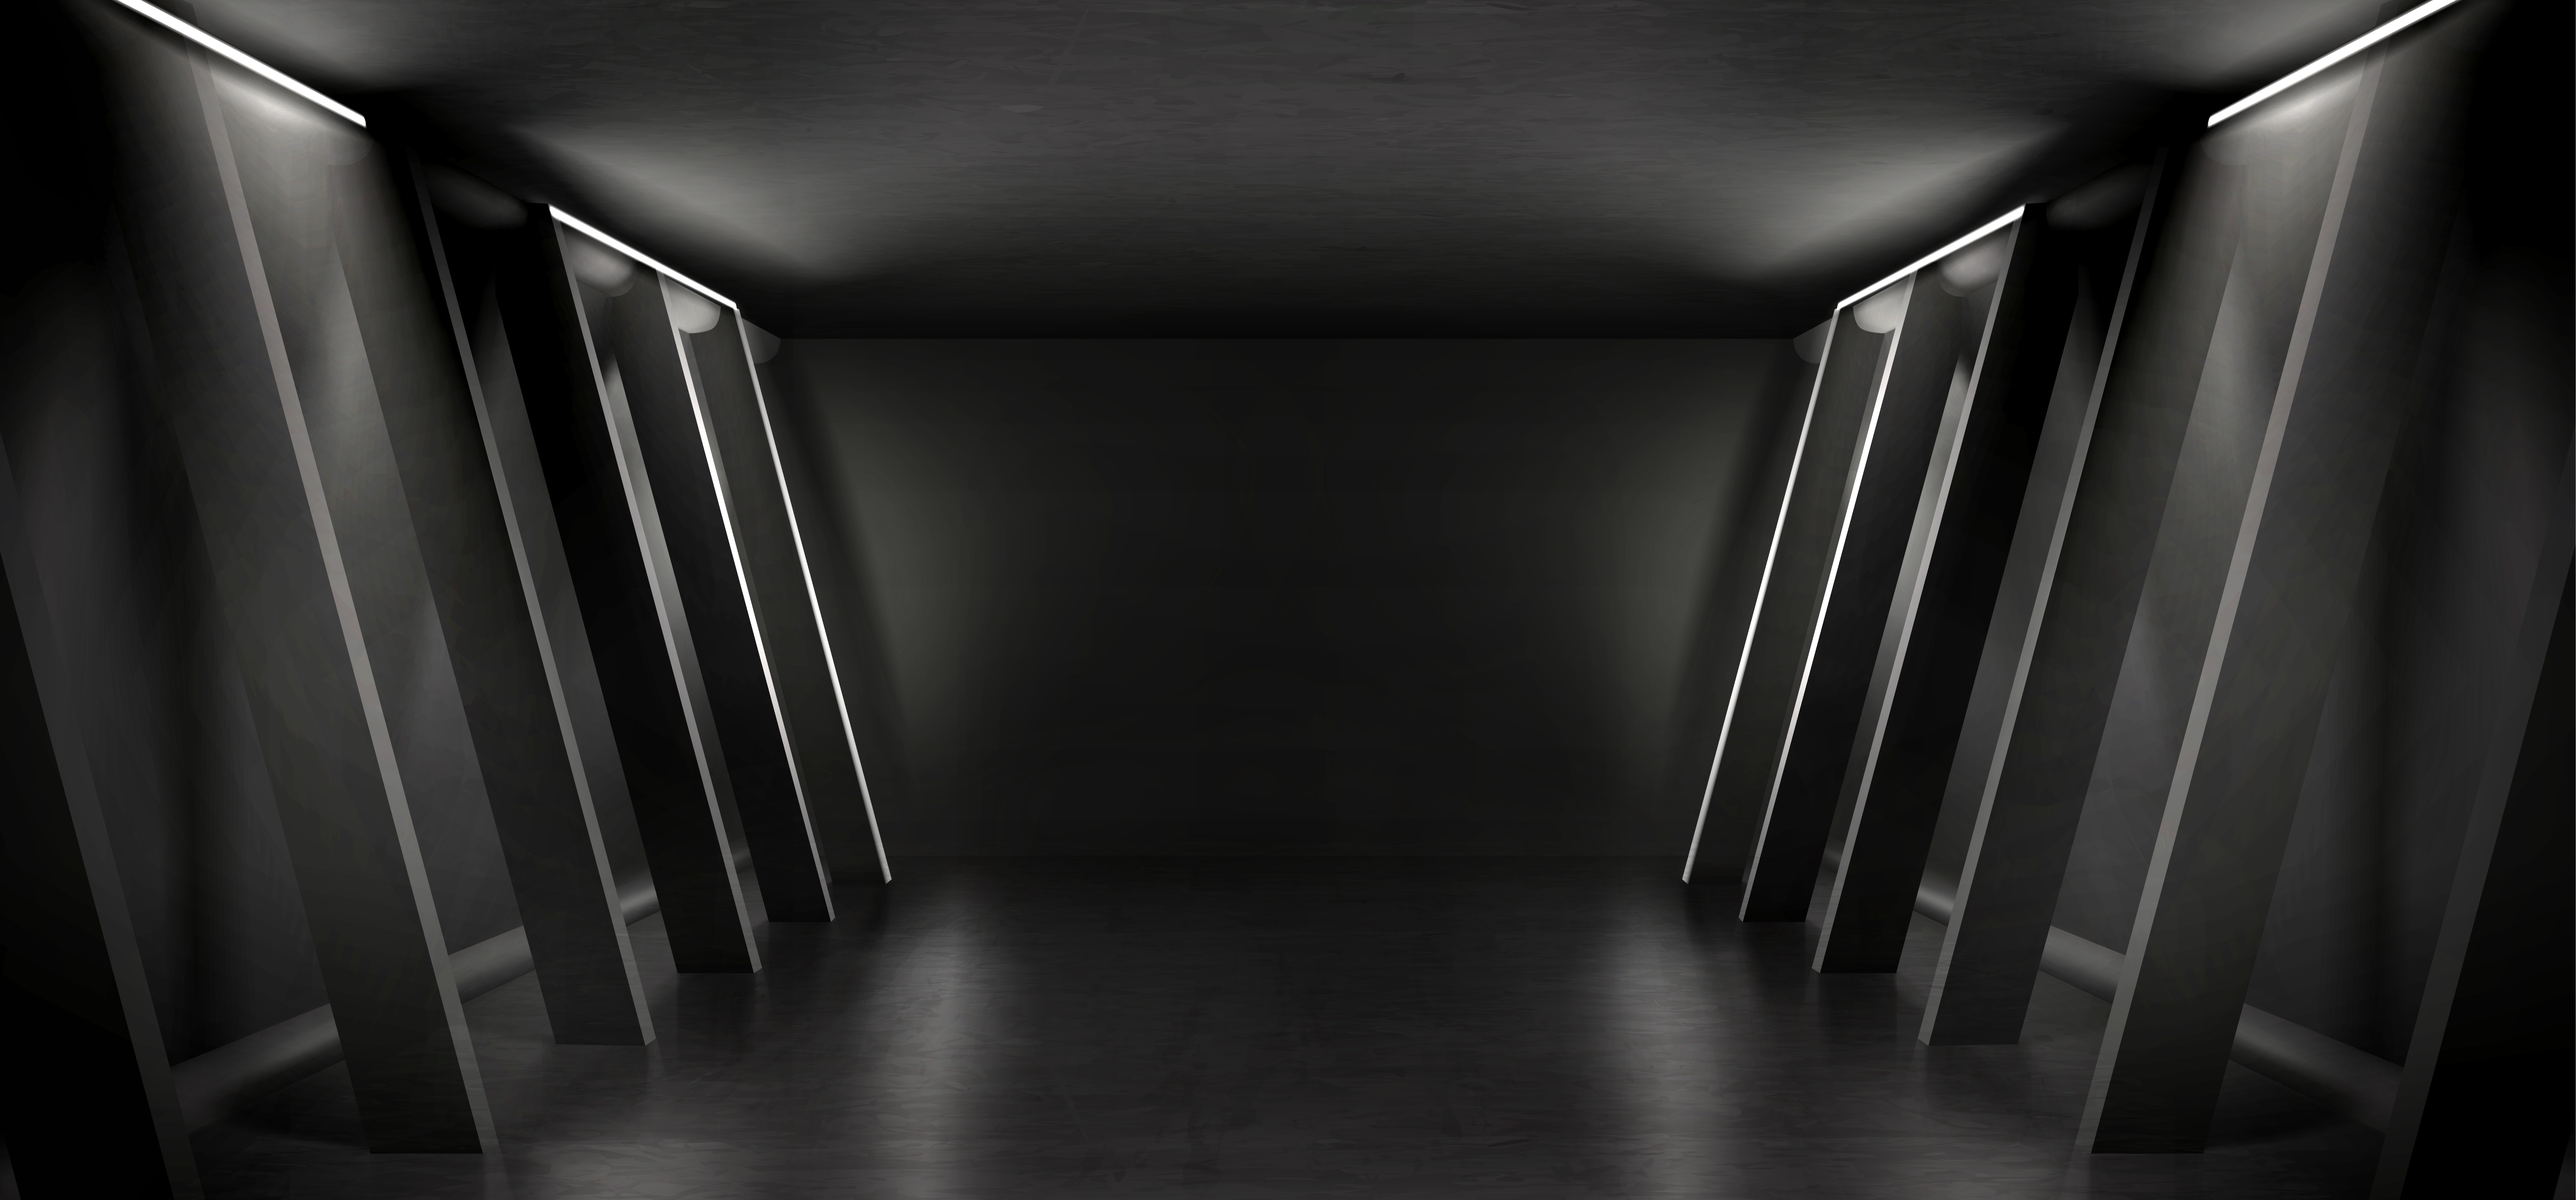
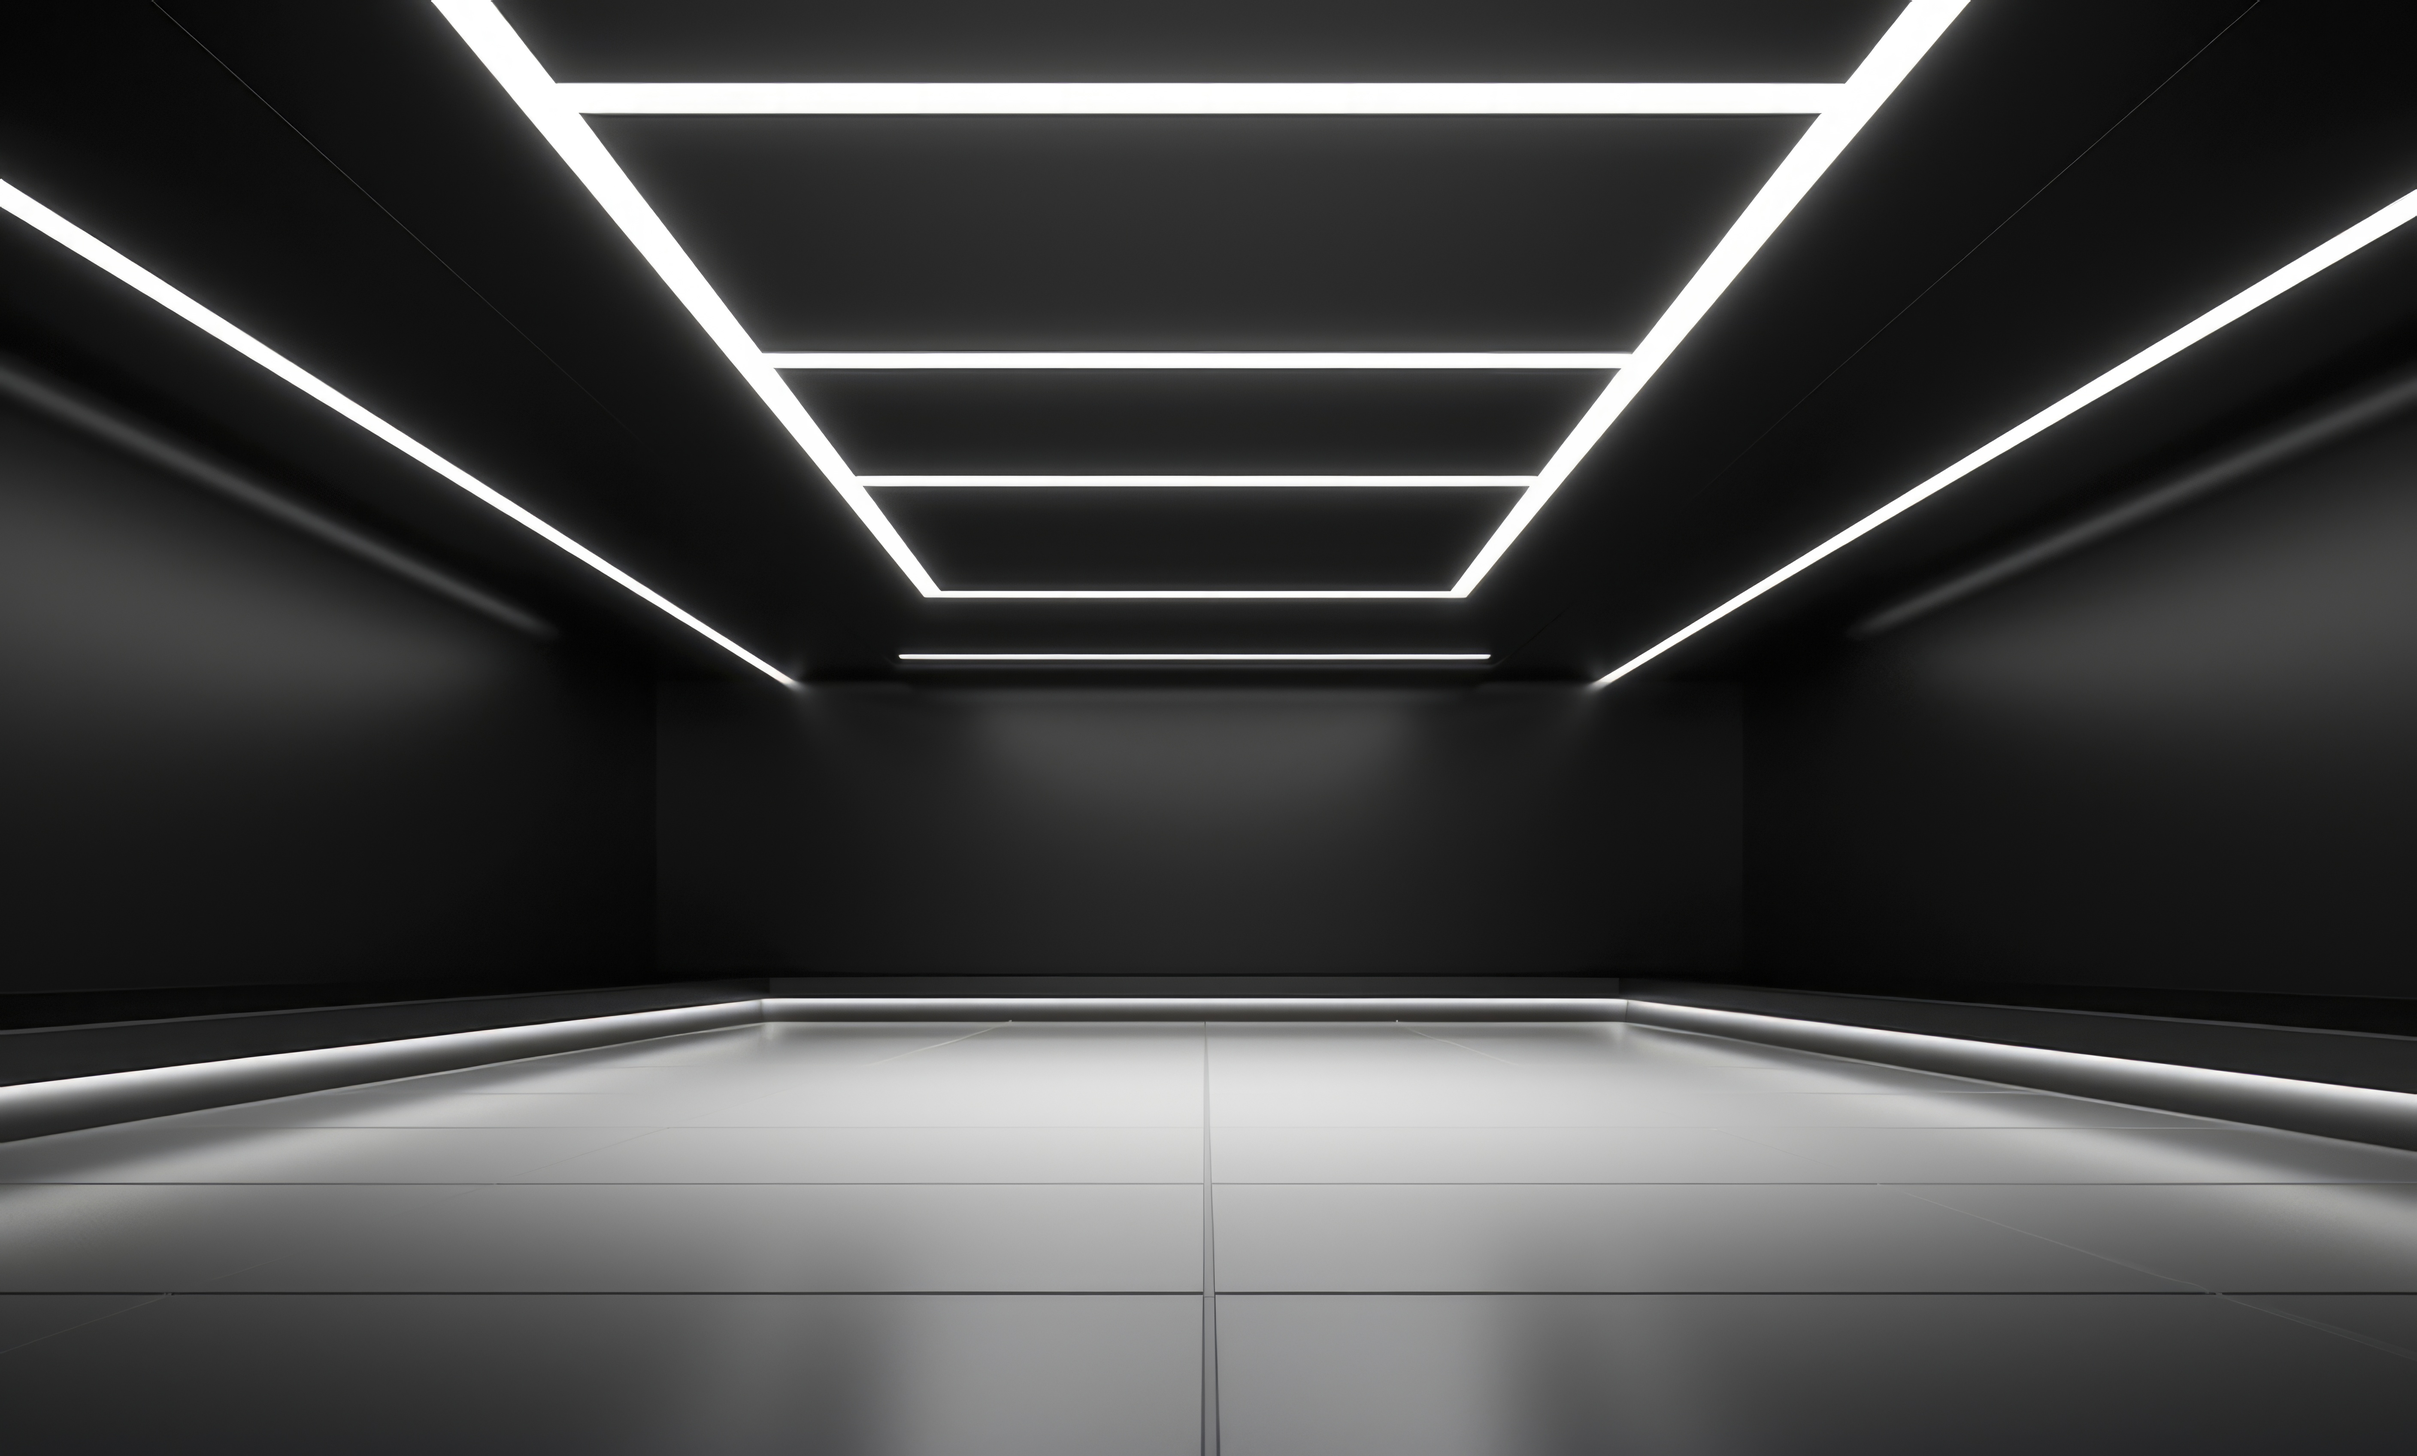
feat(ui): add new showroom hero image and implement progressive location dropdowns

diff --git a/frontend/src/app/showrooms/ShowroomsClient.tsx b/frontend/src/app/showrooms/ShowroomsClient.tsx
@@ -78,25 +78,53 @@ export function ShowroomsClient({ initialShowrooms }: { initialShowrooms: Showro
         {/* Dropdown Discovery Layer */}
         <div className="mb-24 border-b border-[rgba(255,255,255,0.05)] pb-12 relative z-50">
           <h2 className="font-heading text-[10px] uppercase tracking-[0.4em] text-[#4A4A4A] mb-8">Set Location</h2>
-          <div className="grid grid-cols-1 md:grid-cols-3 gap-8 lg:gap-16 w-full">
-            <PremiumDropdown 
-              value={selection.country}
-              options={locations.countries}
-              onChange={v => setSelection({ country: v, state: '', city: '' })}
-              placeholder="Select Country"
-            />
-            <PremiumDropdown 
-              value={selection.state}
-              options={selection.country ? locations.statesByCountry[selection.country] || [] : []}
-              onChange={v => setSelection({ ...selection, state: v, city: '' })}
-              placeholder="Select State"
-            />
-            <PremiumDropdown 
-              value={selection.city}
-              options={selection.state ? locations.citiesByState[selection.state] || [] : []}
-              onChange={v => setSelection({ ...selection, city: v })}
-              placeholder="Select City"
-            />
+          <div className="flex flex-col md:flex-row gap-8 lg:gap-16 w-full">
+            <div className="w-full md:flex-1">
+              <PremiumDropdown 
+                value={selection.country}
+                options={locations.countries}
+                onChange={v => setSelection({ country: v, state: '', city: '' })}
+                placeholder="Select Country"
+              />
+            </div>
+            
+            <AnimatePresence>
+              {selection.country && (
+                <motion.div 
+                  initial={{ opacity: 0, x: -20 }}
+                  animate={{ opacity: 1, x: 0 }}
+                  exit={{ opacity: 0, x: -20 }}
+                  transition={{ duration: 0.4, ease: [0.22, 1, 0.36, 1] }}
+                  className="w-full md:flex-1"
+                >
+                  <PremiumDropdown 
+                    value={selection.state}
+                    options={locations.statesByCountry[selection.country] || []}
+                    onChange={v => setSelection({ ...selection, state: v, city: '' })}
+                    placeholder="Select State"
+                  />
+                </motion.div>
+              )}
+            </AnimatePresence>
+
+            <AnimatePresence>
+              {selection.state && (
+                <motion.div 
+                  initial={{ opacity: 0, x: -20 }}
+                  animate={{ opacity: 1, x: 0 }}
+                  exit={{ opacity: 0, x: -20 }}
+                  transition={{ duration: 0.4, ease: [0.22, 1, 0.36, 1] }}
+                  className="w-full md:flex-1"
+                >
+                  <PremiumDropdown 
+                    value={selection.city}
+                    options={locations.citiesByState[selection.state] || []}
+                    onChange={v => setSelection({ ...selection, city: v })}
+                    placeholder="Select City"
+                  />
+                </motion.div>
+              )}
+            </AnimatePresence>
           </div>
         </div>
         
@@ -130,8 +158,8 @@ function HeroSection({ scrollYProgress }: { scrollYProgress: MotionValue<number>
   return (
     <section className="relative flex h-[70vh] lg:h-[85vh] w-full items-center justify-center overflow-hidden border-b border-[rgba(255,255,255,0.03)]">
       <motion.div style={{ y, opacity }} className="absolute inset-0 z-0 bg-[#050505]">
-        <Image src="/images/showrooms/showroom-hero.jpg" alt="Showrooms Hero" fill className="object-cover opacity-50 mix-blend-luminosity grayscale" unoptimized priority />
-        <div className="absolute inset-0 bg-gradient-to-b from-background/30 via-[#050505]/80 to-background z-10" />
+        <Image src="/images/showrooms/showroom-hero.jpg" alt="Showrooms Hero" fill className="object-cover opacity-80" unoptimized priority />
+        <div className="absolute inset-0 bg-gradient-to-b from-transparent via-[#050505]/40 to-background z-10" />
       </motion.div>
 
       <div className="relative z-10 flex flex-col items-center text-center px-6 pointer-events-none">
